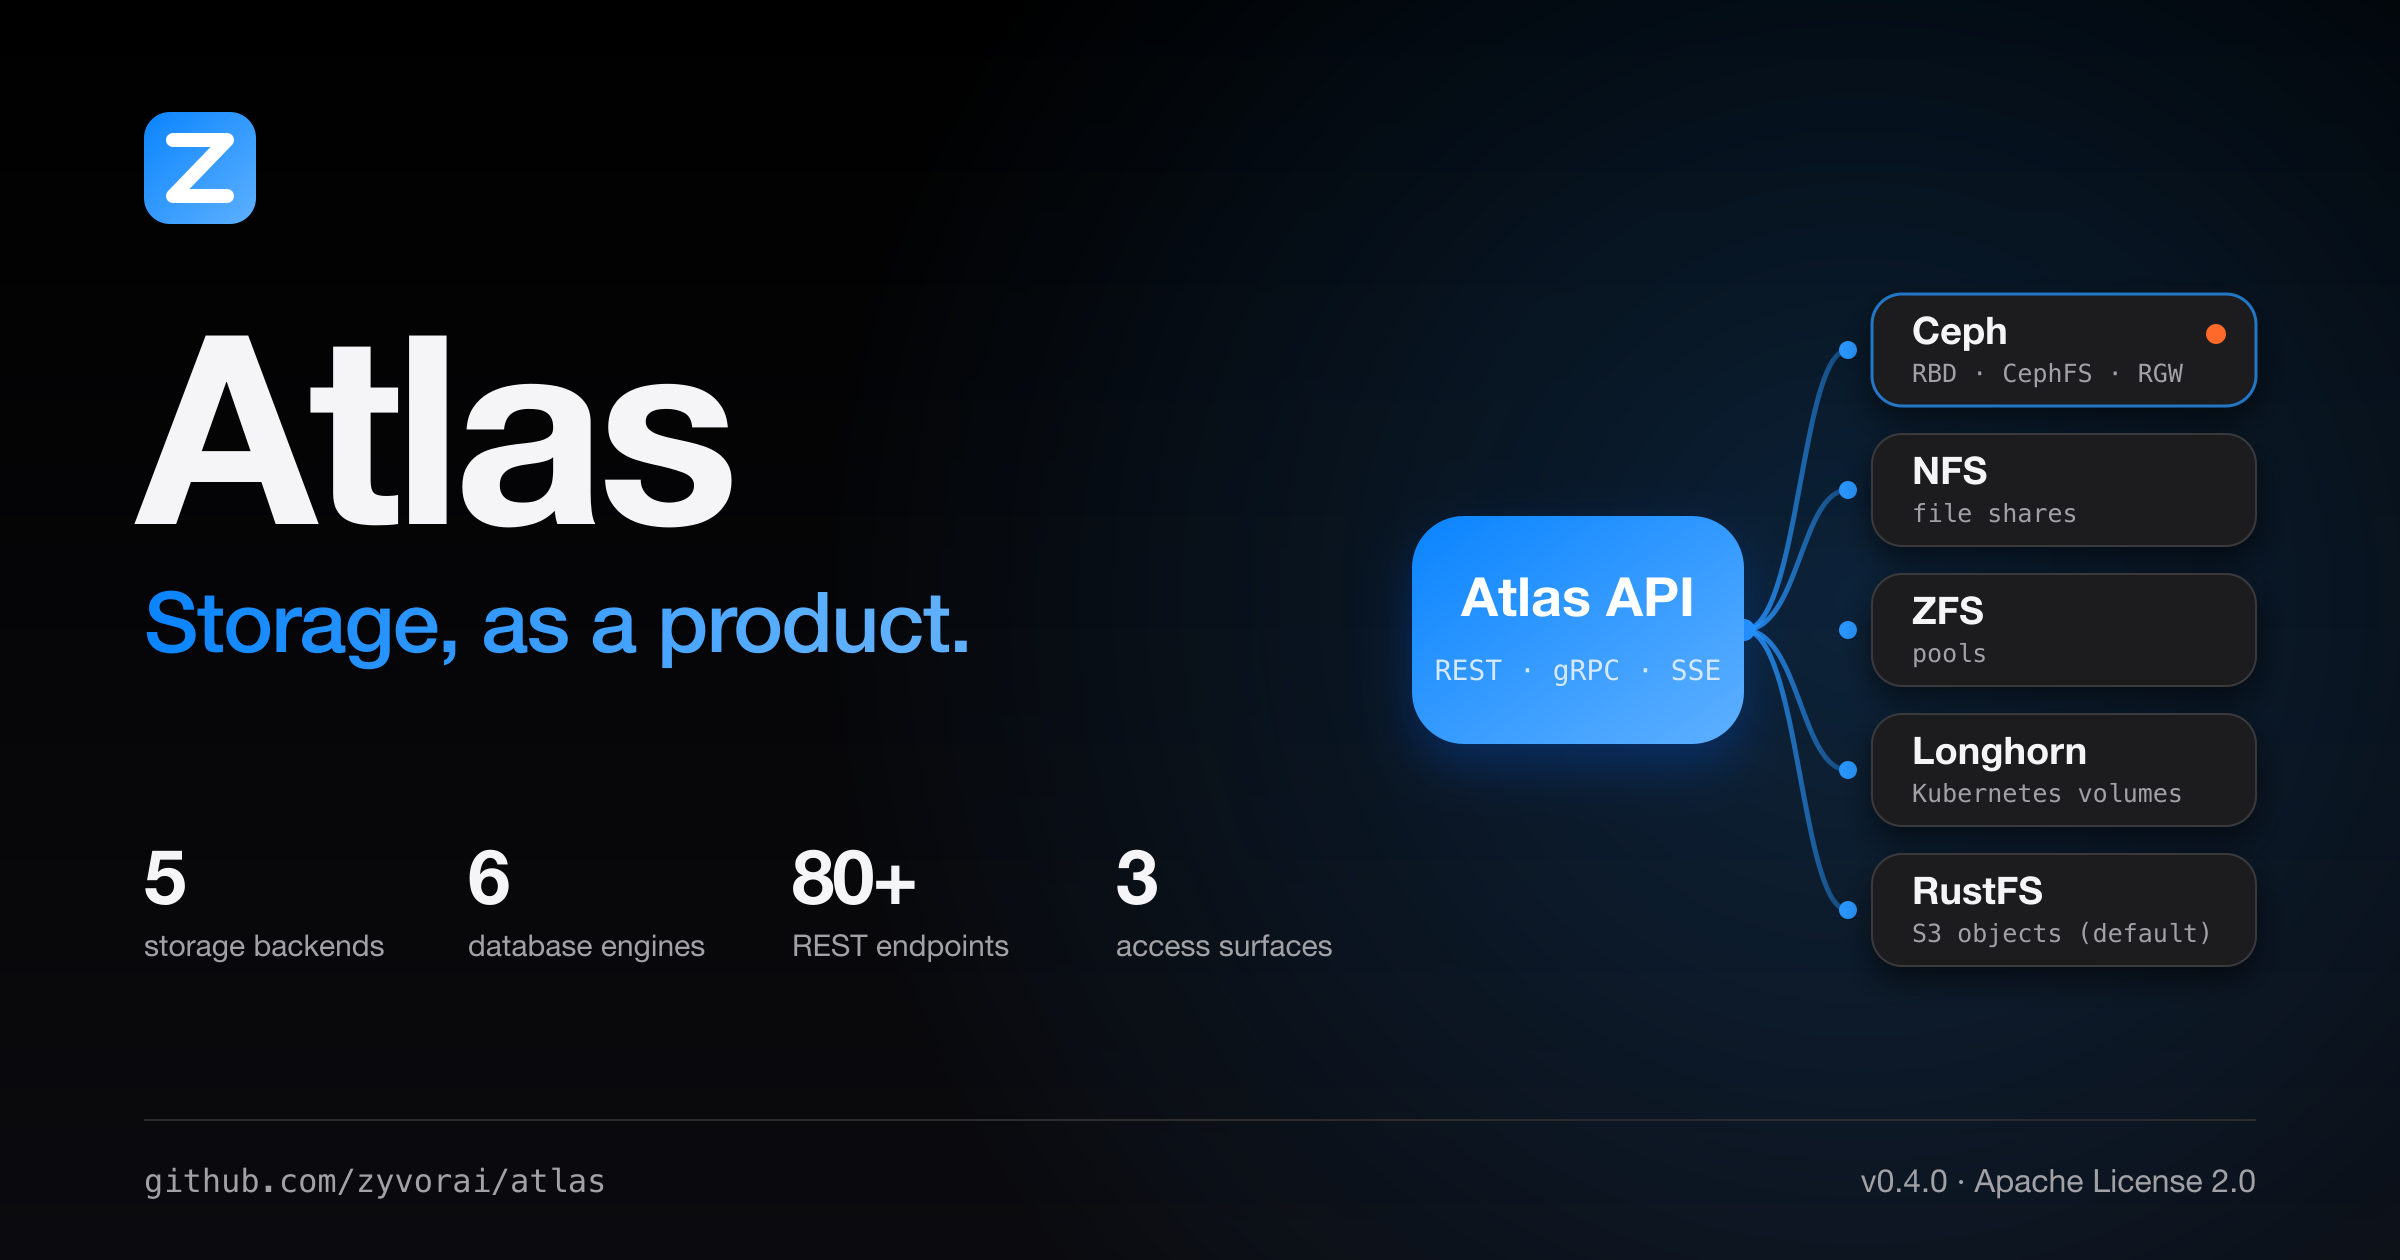
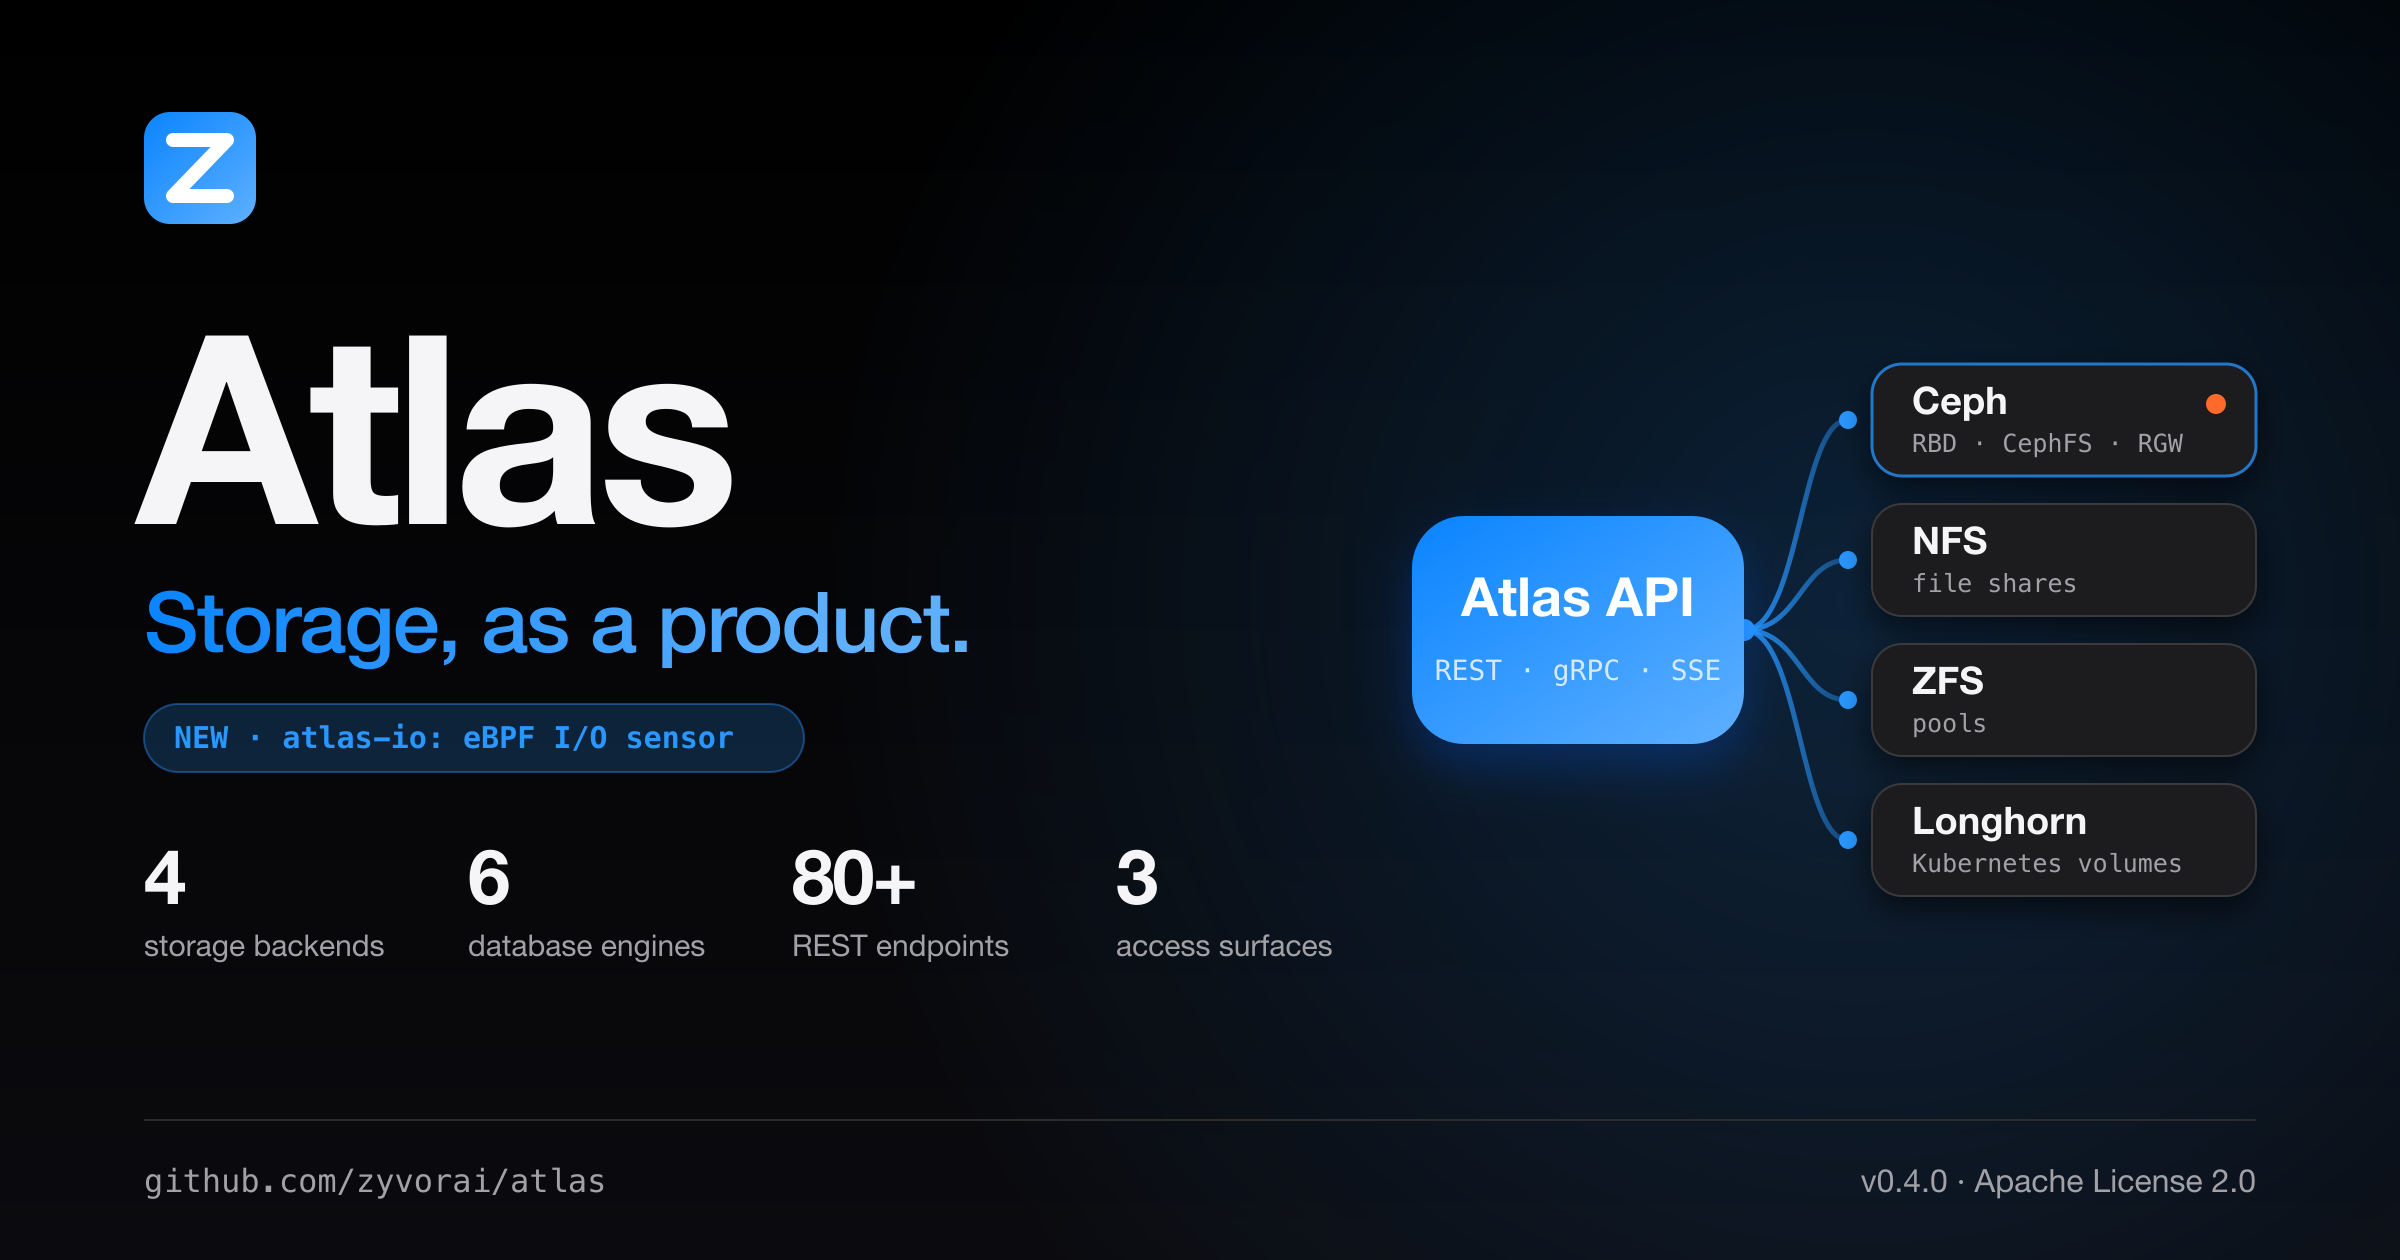
README/social: drop stale RustFS mention, add atlas-io eBPF sensor
The share-card generator still listed RustFS as a 5th backend and said
"5 storage backends" (stale since RustFS was removed in #55 — README.md
itself already said 4). Regenerated both cards: 4 real StorageDriver
backends (Ceph/NFS/ZFS/Longhorn) fan out from the API box, plus a new
badge calling out atlas-io. Backend-card vertical centering is now
computed from len(BACKENDS) instead of a hardcoded 5.

README: new Capabilities row for atlas-io/observability/governance,
mermaid diagram gains the optional per-node atlas-io agent, "Why Atlas"
gains an eBPF-observability row. docs/ARCHITECTURE.md gets a short
atlas-io paragraph next to the existing DataBridge one, linking
docs/IO_EBPF.md.

Changed region(s): [[0.7188, 0.2167, 0.9375, 0.7738], [0.0625, 0.5571, 0.3438, 0.619], [0.0625, 0.681, 0.0938, 0.7119]]

diff --git a/docs/social/build-share-cards.py b/docs/social/build-share-cards.py
@@ -22,21 +22,23 @@ DARK = dict(
 SANS = "'Helvetica Neue',Helvetica,Arial,sans-serif"
 MONO = "'Menlo','JetBrains Mono',monospace"
 
-# (name, detail); Ceph is the primary backend and carries the single orange dot.
+# (name, detail); Ceph is the primary backend and carries the single orange dot. Object storage
+# defaults to Ceph RGW (no separate first-party object backend since RustFS was removed).
 BACKENDS = [
     ("Ceph", "RBD · CephFS · RGW"),
     ("NFS", "file shares"),
     ("ZFS", "pools"),
     ("Longhorn", "Kubernetes volumes"),
-    ("RustFS", "S3 objects (default)"),
 ]
-STATS = [("5", "storage backends"), ("6", "database engines"),
+STATS = [("4", "storage backends"), ("6", "database engines"),
          ("80+", "REST endpoints"), ("3", "access surfaces")]
+NEW_BADGE = "NEW · atlas-io: eBPF I/O sensor"
 
 
 def svg(p, label):
     card_h, gap, x0, w = 56, 14, 936, 192
-    top = 315 - (5 * card_h + 4 * gap) // 2
+    n = len(BACKENDS)
+    top = 315 - (n * card_h + (n - 1) * gap) // 2
     cards, wires, dots = [], [], []
     for i, (name, detail) in enumerate(BACKENDS):
         y = top + i * (card_h + gap)
@@ -109,6 +111,10 @@ def svg(p, label):
   <text x="68" y="262" font-family="{SANS}" font-size="132" font-weight="700" letter-spacing="-4" fill="{p['ink']}">Atlas</text>
   <text x="72" y="326" font-family="{SANS}" font-size="42" font-weight="600" letter-spacing="-0.8" fill="url(#blueText)">Storage, as a product.</text>
 
+  <!-- new: eBPF I/O sensor badge -->
+  <rect x="72" y="352" width="330" height="34" rx="17" fill="{p['wash']}" fill-opacity="{p['wash_op']}" stroke="{p['card_hi']}" stroke-opacity="0.4"/>
+  <text x="87" y="374" font-family="{MONO}" font-size="15" font-weight="700" fill="{p['card_hi']}">{NEW_BADGE}</text>
+
   <!-- verified stats -->
   <g font-family="{SANS}">
     {chr(10).join('    ' + s if i else s for i, s in enumerate(stats))}
@@ -139,6 +145,7 @@ def svg(p, label):
 
 if __name__ == "__main__":
     out = sys.argv[1] if len(sys.argv) > 1 else "docs/social"
-    label = "Atlas — Storage, as a product. One API in front of Ceph, NFS, ZFS, Longhorn and RustFS."
+    label = ("Atlas — Storage, as a product. One API in front of Ceph, NFS, ZFS and Longhorn, "
+              "plus atlas-io: an observe-first eBPF I/O sensor.")
     open(f"{out}/atlas-share-card.svg", "w").write(svg(LIGHT, label))
     open(f"{out}/atlas-share-card-dark.svg", "w").write(svg(DARK, label))

diff --git a/README.md b/README.md
@@ -27,7 +27,7 @@ Products call stable Atlas APIs; Atlas maps intent to Ceph, NFS, ZFS and Longhor
 
 ---
 
-**4** storage backends · **6** database engines migratable via DataBridge · **80+** REST endpoints · **3** access surfaces (REST · gRPC · SSE)
+**4** storage backends · **6** database engines migratable via DataBridge · **80+** REST endpoints · **3** access surfaces (REST · gRPC · SSE) · **eBPF** observe-first I/O sensor
 
 A gateway with an Apple Shop console for operators. Read the [full docs](https://zyvorai.github.io/atlas/): quickstart, architecture, licensing.
 
@@ -97,6 +97,20 @@ Explainable AI-assisted risk scoring and prioritized, read-only runbooks.
 Apple.com-style top-nav shell, SF type, Night/Day themes.
 </td>
 </tr>
+<tr>
+<td valign="top" width="33%">
+<b>atlas-io (eBPF sensor)</b><br>
+Optional, observe-first I/O agent: device-attributed histograms, workload/RCA, fail-open leases — kept out of the gateway so it never needs <code>CAP_BPF</code>.
+</td>
+<td valign="top" width="33%">
+<b>Observability</b><br>
+Prometheus <code>/metrics</code>, forecast/history, OpenTelemetry tracing, unified <code>/events</code>, deep readyz/livez.
+</td>
+<td valign="top" width="33%">
+<b>Governance & security</b><br>
+Per-tenant quotas, DB-backed rate limiting, OIDC/SSO, Vault-backed secrets, token revocation.
+</td>
+</tr>
 </table>
 
 Customer-facing feature guide: [docs/atlas-customer-feature-guide.md](docs/atlas-customer-feature-guide.md).
@@ -137,6 +151,10 @@ flowchart LR
   Driver --> Longhorn[("Longhorn")]
   Atlas --> DataBridge["DataBridge"]
   DataBridge --> Edge[("Edge DB on Ceph\nPostgres · MySQL · MariaDB\nOracle · SQL Server · MongoDB")]
+  IO["atlas-io agent\n(optional, per-node)"] -. "HTTP: histograms · RCA · leases" .-> Atlas
+  IO --> Ceph
+  IO --> NFS
+  IO --> ZFS
 ```
 
 Full write-up: [docs/ARCHITECTURE.md](docs/ARCHITECTURE.md).
@@ -151,6 +169,7 @@ Full write-up: [docs/ARCHITECTURE.md](docs/ARCHITECTURE.md).
 | Per-tenant quotas & governance | Yes | Partial | No |
 | Built-in operator console | Yes | Ceph Dashboard only | No |
 | Kubernetes-native provisioning | Yes (via drivers) | No | Yes |
+| eBPF I/O observability, kept out of the control plane | Yes (`atlas-io`) | No | No |
 
 ## Important boundaries
 

diff --git a/docs/ARCHITECTURE.md b/docs/ARCHITECTURE.md
@@ -64,6 +64,12 @@ console, adds source connectors + operator/Debezium CR builders, and a periodic 
 Jobs, CDC health). It calls Atlas to provision Ceph-backed storage for the edge databases. See
 [DATABRIDGE.md](DATABRIDGE.md).
 
+**`atlas-io`** is a separate, optional node agent (`atlas-io-agent`) — deliberately *not* a crate the
+gateway depends on, so the control plane never needs `CAP_BPF`/`CAP_PERFMON`. It runs its own HTTP API
+(`/io/{health,summary,histograms,workloads,rca,leases,coverage,poll}`, `/metrics`) that the gateway or
+an operator can poll; fake bio source by default, real CO-RE `block_rq_*` attach not yet wired up (live
+mode reports missing programs rather than fabricating data). See [IO_EBPF.md](IO_EBPF.md).
+
 ## The driver contract
 
 `atlas-driver-core::StorageDriver` (PDF §17.2):
